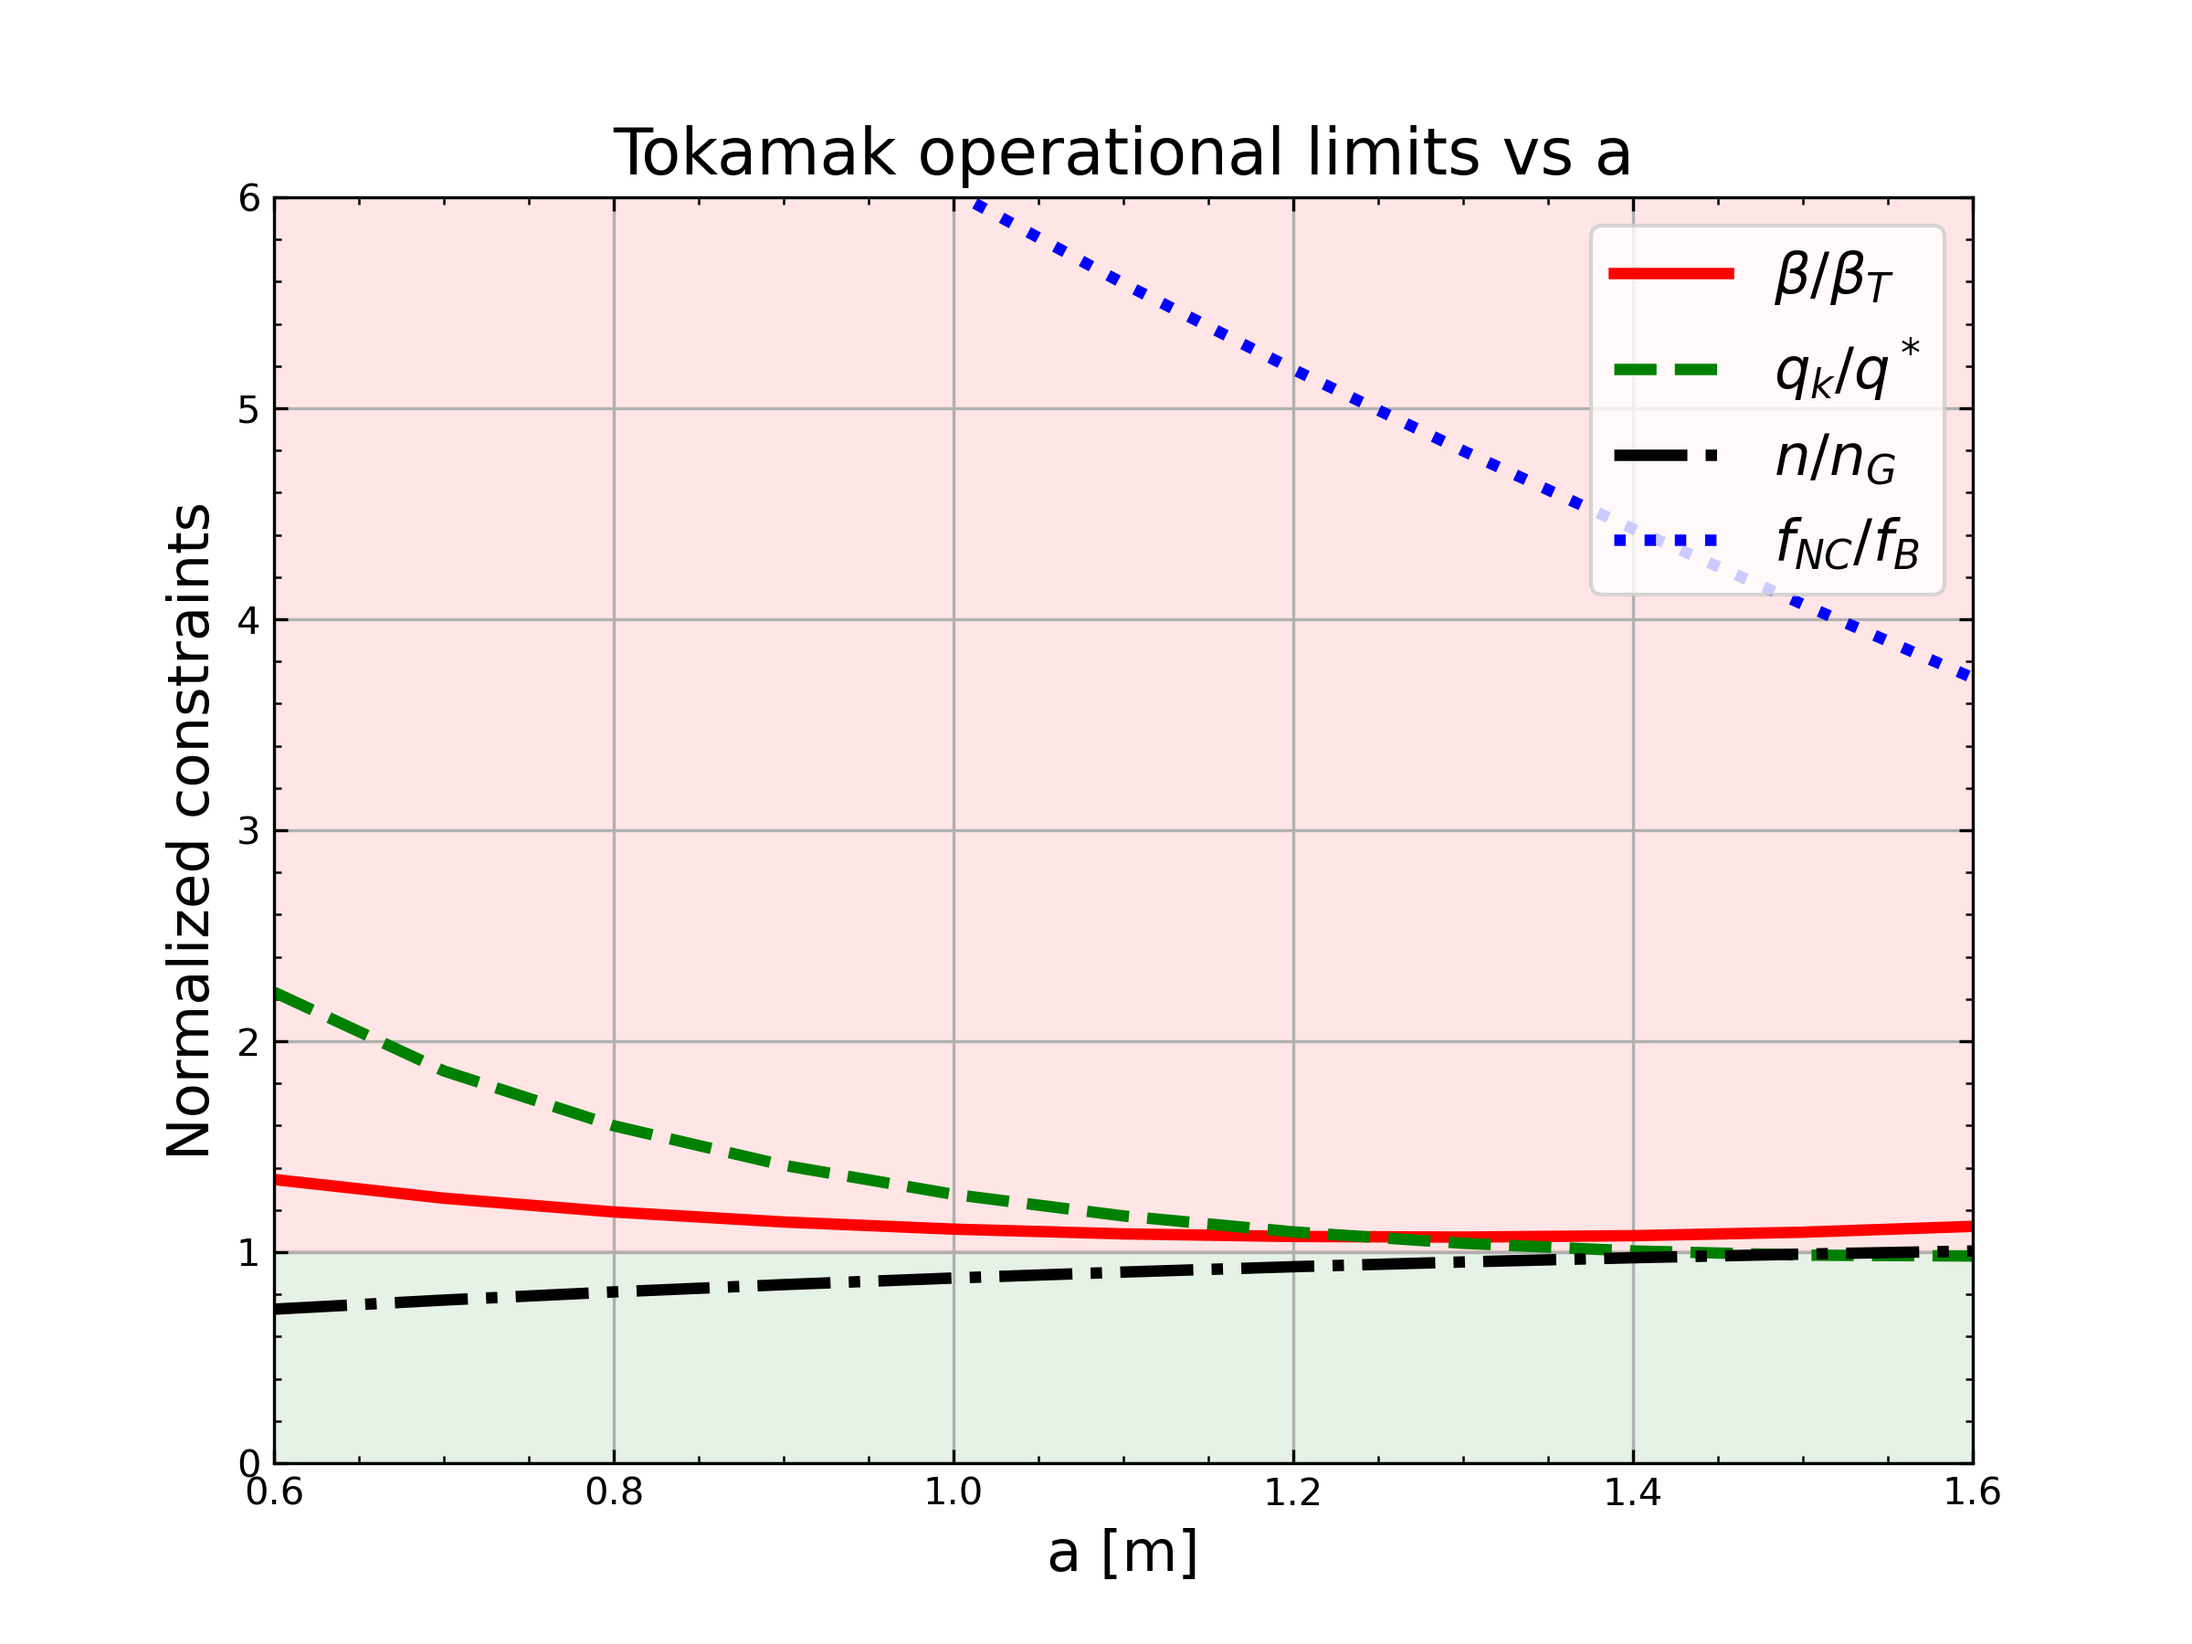
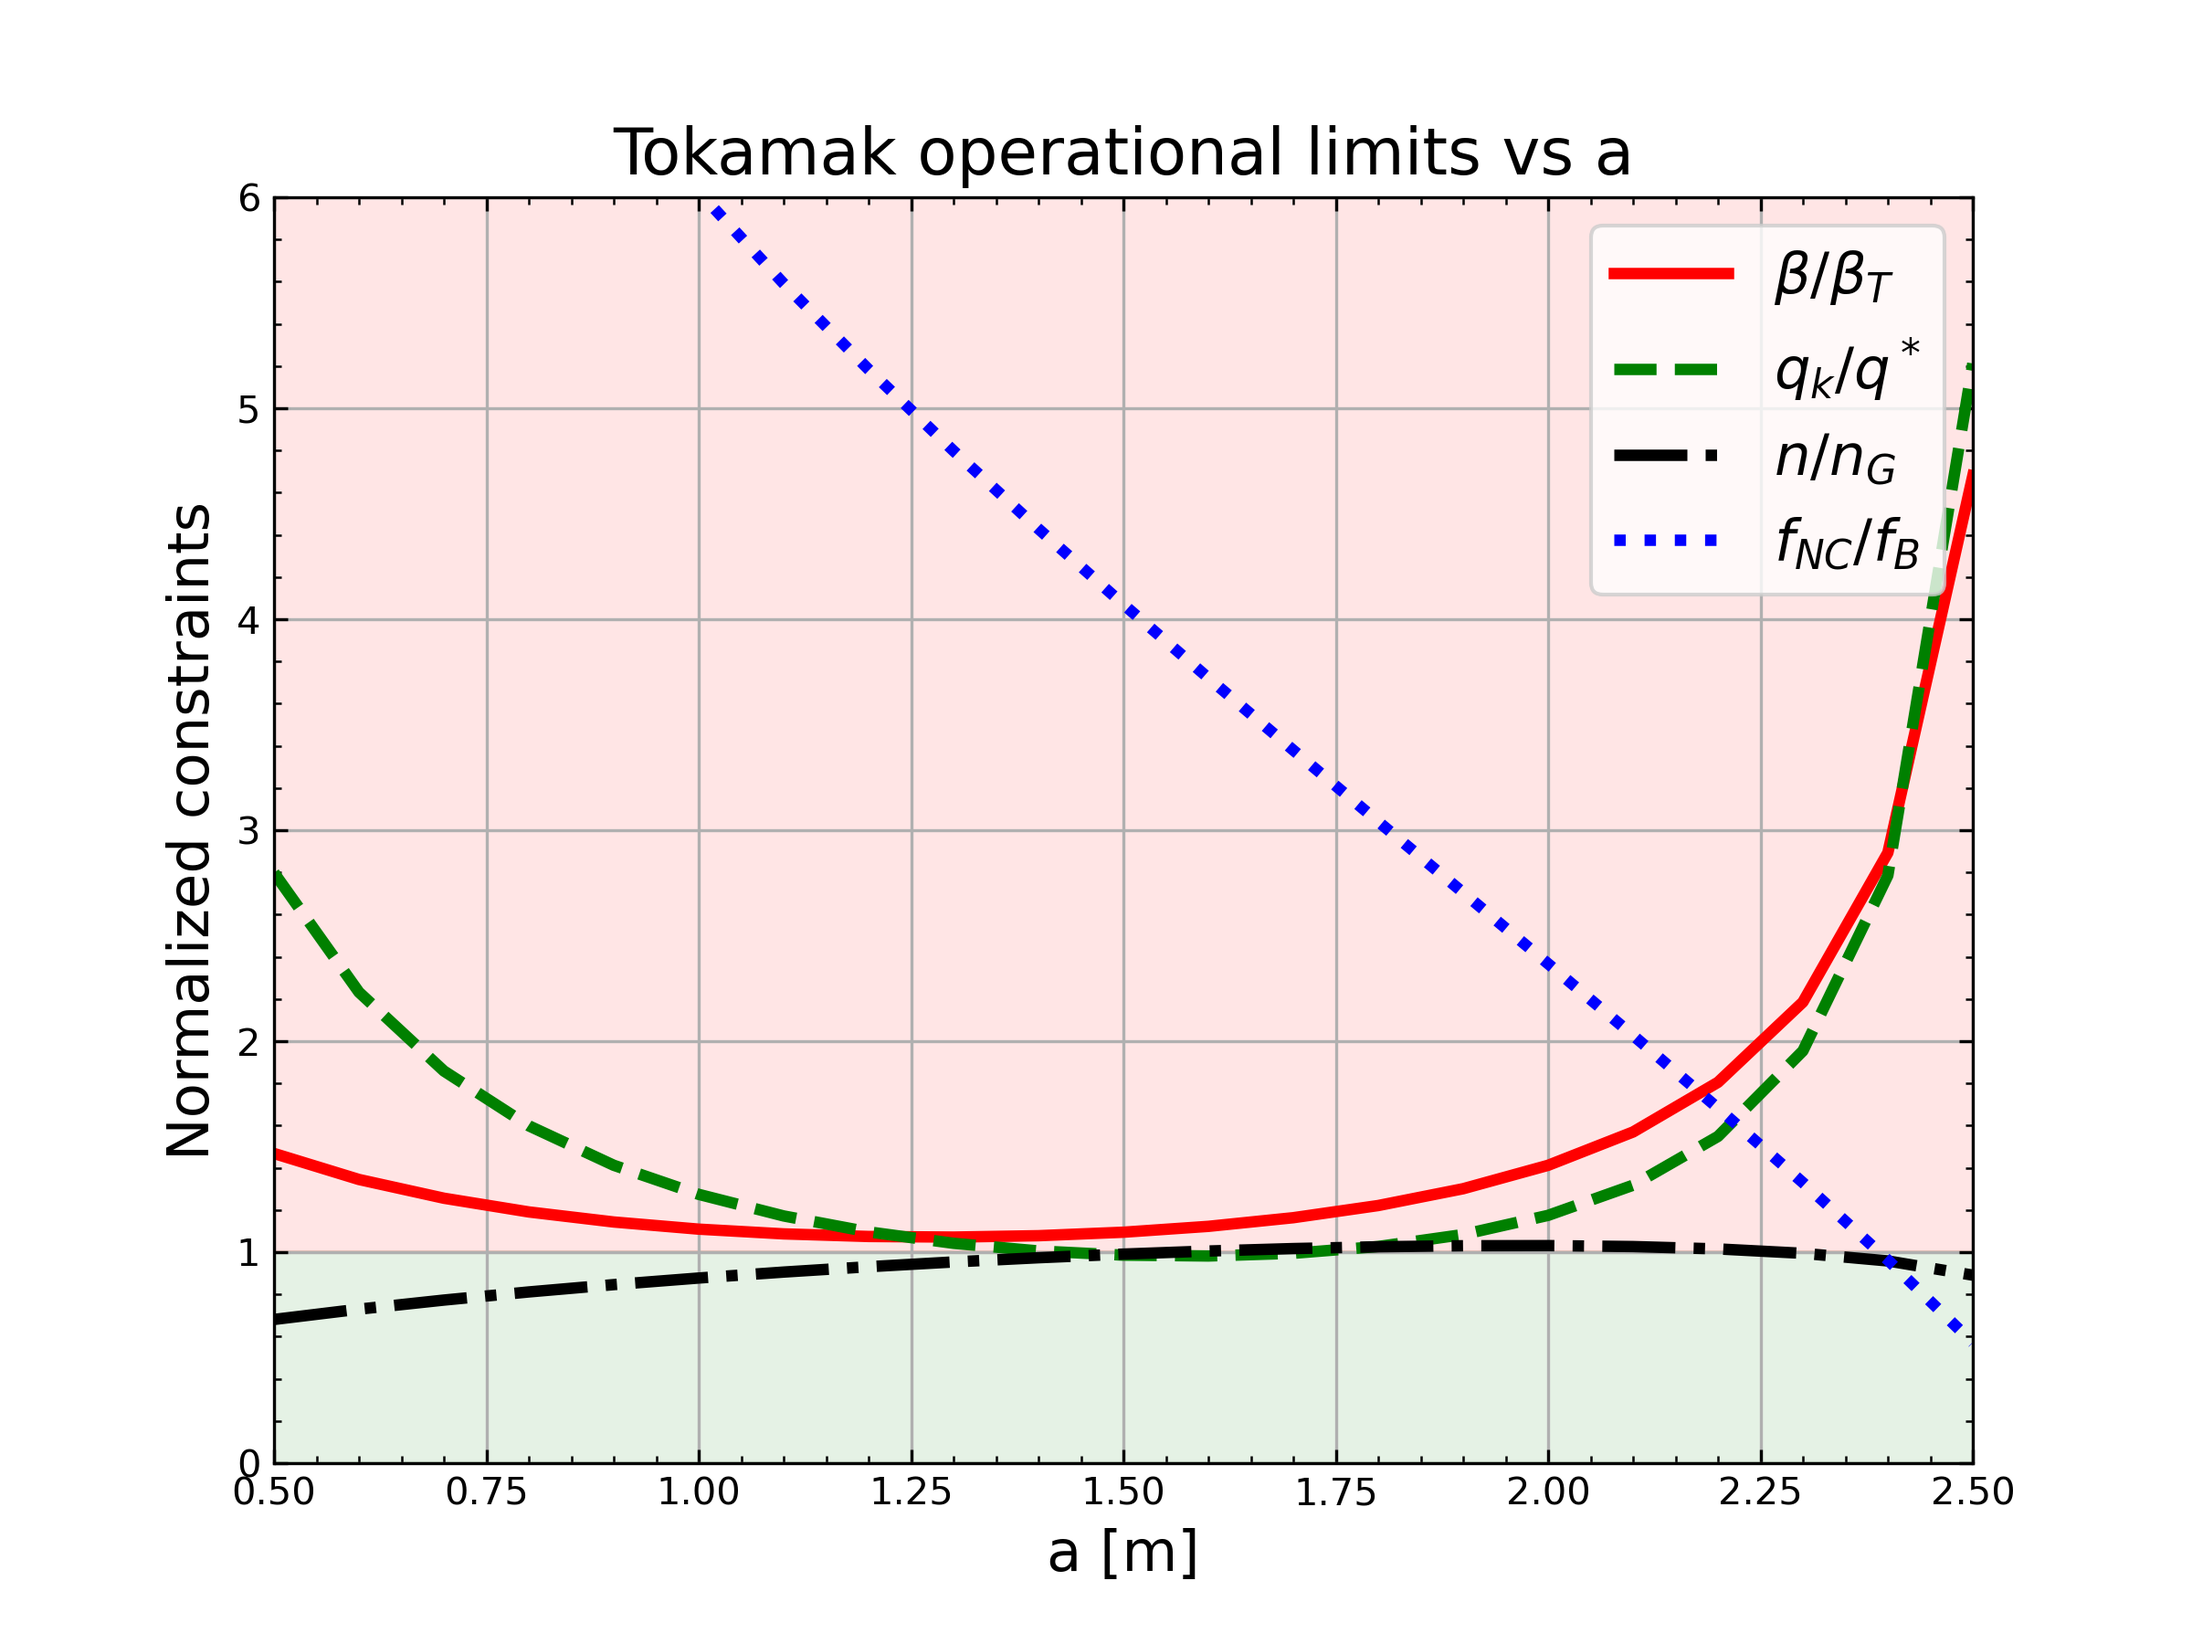
Comment out some things

diff --git a/Optimization.py b/Optimization.py
@@ -197,34 +197,34 @@ def safety_limit(R0,B0,a,I_PM,kappa):
 
     qstar = 5*a**2*kappa*B0/(R0*I_PM)
     # qstar = 0.112*a**(1.37)*B0**(1.16) #Friedberg publication
-    print("Qstar:",qstar)
+    # print("Qstar:",qstar)
     if qstar>2:
-        print("q limit met")
+        # print("q limit met")
         return qstar
     else:
-        print("q limit NOT met")
+        # print("q limit NOT met")
         return qstar
     
 def beta_limit(beta_val,B0,I_PM,a):
     """Applies Troyon limit to the design parameters"""
     limit = 0.03*I_PM/(a*B0)
-    print("beta limit:", limit)
+    # print("beta limit:", limit)
     if beta_val<limit:
-        print("Troyon/Beta limit met")
+        # print("Troyon/Beta limit met")
         return limit
     else:
-        print("Troyon/Beta limit NOT met")
+        # print("Troyon/Beta limit NOT met")
         return limit
 
 def Density_limit(n,a,I_PM):
     """Applies Greenwald limit to the design parameters"""
     limit = I_PM/(np.pi*a**2)
-    print("limit greenwald:",limit)
+    # print("limit greenwald:",limit)
     if n/(1*10**(20))<limit:
-        print("Greenwald lim met")
+        # print("Greenwald lim met")
         return limit
     else:
-        print("Greenwald lim NOT met")
+        # print("Greenwald lim NOT met")
         return limit
 
 def bootstrap_frac(kappa,beta_val,B0,I_P,R0,a,epsilon):
@@ -233,10 +233,10 @@ def bootstrap_frac(kappa,beta_val,B0,I_P,R0,a,epsilon):
     fB = 1.3*kappa**(0.25)*beta_val*qstar/(epsilon**(0.5))
     limit=0.8
     if fB>limit:
-        print("Bootstrap fraction met")
+        # print("Bootstrap fraction met")
         return fB
     else:
-        print("Bootstrap fraction NOT met")
+        # print("Bootstrap fraction NOT met")
         return fB
     
 
@@ -315,30 +315,30 @@ if __name__ == "__main__":
     asp = AspectRatio(a,R0)
     fB = bootstrap_frac(kappa,beta_val,B0,I_PM,R0,a,epsilon)
 
-    print("xi =", xi)
-    print("a (m) =", a)
-    print("c (m) =", c)
-    print("V_I / P_E (m^3 / MW) =", VI_over_PE_val)
-    print("R0 (m) =", R0)
-    print("Aspect Ratio =", asp)
-    print("A_p (m^2) =", A_p)
-    print("V_p (m^3) =", V_p)
-    print("p (atm) =", p_atm, "p (Pa) =", p_Pa)
-    print("tau_E required (s) =", tau_E_s)
-    print("B0 (T) =", B0)
-    print("Plasma Current (A) =", I_P)
-    print("Plasma Current (MA) =", I_PM_H)
-    print("beta =", beta_val)
-    print("Density (m^-3) n=", n)
-    print("Fusion power (W):",P_f)
-    print("Bootstrap fraction fB =", fB)
-    # print("Coil Current (m^-3) I=", I)
-    print("---------------- \n LIMITS:")
+    # print("xi =", xi)
+    # print("a (m) =", a)
+    # print("c (m) =", c)
+    # print("V_I / P_E (m^3 / MW) =", VI_over_PE_val)
+    # print("R0 (m) =", R0)
+    # print("Aspect Ratio =", asp)
+    # print("A_p (m^2) =", A_p)
+    # print("V_p (m^3) =", V_p)
+    # print("p (atm) =", p_atm, "p (Pa) =", p_Pa)
+    # print("tau_E required (s) =", tau_E_s)
+    # print("B0 (T) =", B0)
+    # print("Plasma Current (A) =", I_P)
+    # print("Plasma Current (MA) =", I_PM_H)
+    # print("beta =", beta_val)
+    # print("Density (m^-3) n=", n)
+    # print("Fusion power (W):",P_f)
+    # print("Bootstrap fraction fB =", fB)
+    # # print("Coil Current (m^-3) I=", I)
+    # print("---------------- \n LIMITS:")
 
-    safety_limit(R0,B0,a,I_PM,kappa)
-    beta_limit(beta_val,B0,I_PM,a)
-    Density_limit(n,a,I_PM)
-    bootstrap_frac(kappa,beta_val,B0,I_PM,R0,a,epsilon)
+    # safety_limit(R0,B0,a,I_PM,kappa)
+    # beta_limit(beta_val,B0,I_PM,a)
+    # Density_limit(n,a,I_PM)
+    # bootstrap_frac(kappa,beta_val,B0,I_PM,R0,a,epsilon)
 
 
 
@@ -409,15 +409,33 @@ def Param_Sweep(vals,param_name, unit = "-"):
     return fig
 
     
+def Get_Constraint_Value(a=1.993, H=1.0, B_max=13.0):
+    qk = 2  #Q profile limit at the edge
+    fNB = 0.8  #Desired bootstrap fraction
 
+    _,_,_,_,_,_,beta_val,n,_,_,_,fB,qstar,beta_T,nG = CALC_PARAMS(a=a, H=H, B_max=B_max)
 
-B_vals = np.arange(10, 30, 1)
+    norm_beta = beta_val/beta_T
+    norm_qstar = qk/qstar
+    norm_nG = n/(nG*(10**20))
+    norm_fB = fNB/fB
+
+    return norm_beta, norm_qstar, norm_nG, norm_fB
+
+default = Get_Constraint_Value()
+print("Constraint values at default params (a=1.993, H=1.0, B_max=13.0): \n", "Beta: ", default[0], " Qstar: ", default[1], " nG: ", default[2], " fB: ", default[3])
+a1_5 = Get_Constraint_Value(a=1.5)
+print("Constraint values at a = 1.5: \n", "Beta: ", a1_5[0], " Qstar: ", a1_5[1], " nG: ", a1_5[2], " fB: ", a1_5[3])
+Bmax25 = Get_Constraint_Value(B_max=25)
+print("Constraint values at B_max = 25: \n", "Beta: ", Bmax25[0], " Qstar: ", Bmax25[1], " nG: ", Bmax25[2], " fB: ", Bmax25[3])
+
+B_vals = np.arange(10, 31, 1)
 figs = []
 figs.append(Param_Sweep(B_vals, 'B_max', 'T'))
 
-H_vals = np.arange(0.8, 1.4, 0.1)
+H_vals = np.arange(0.5, 2.6, 0.1)
 figs.append(Param_Sweep(H_vals, 'H', '-'))
-a_vals = np.arange(0.6, 1.7, 0.1)
+a_vals = np.arange(0.5, 2.6, 0.1)
 figs.append(Param_Sweep(a_vals, 'a', 'm'))
 
 Layout = "Export" #Options: Tiled, Export
